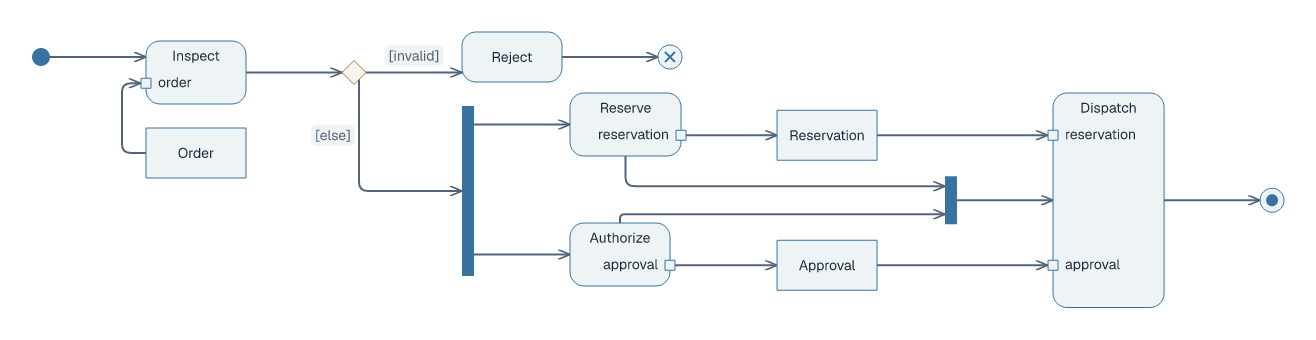
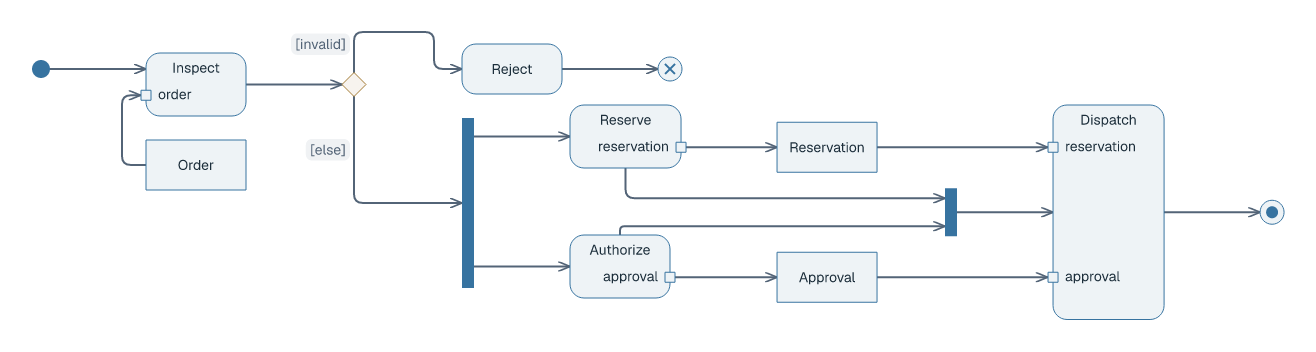
Dock activity decision branches at top and bottom centers

diff --git a/src/route/geometry.rs b/src/route/geometry.rs
@@ -377,62 +377,50 @@ pub(super) fn route_is_clear(points: &[Point], boxes: &[BoxNode], previous: &[Ro
             return false;
         }
         for route in previous {
-            let markers = [
-                (route.points[0], route.appearance.start),
-                (*route.points.last().unwrap(), route.appearance.end),
-            ];
-            if markers.iter().any(|(point, symbol)| {
-                *symbol != crate::syntax::EndSymbol::None && {
-                    let radius = marker_radius(*symbol, route.width);
+            if super::marker_clearance::hits_segment(pair[0], pair[1], route, boxes, true)
+                || super::marker_clearance::hits_segment(pair[0], pair[1], route, boxes, false)
+                || route.qualifiers.iter().any(|qualifier| {
                     segment_hits_rect(
                         pair[0],
                         pair[1],
-                        point.x - radius,
-                        point.y - radius,
-                        2.0 * radius,
-                        2.0 * radius,
-                    )
-                }
-            }) || route.qualifiers.iter().any(|qualifier| {
-                segment_hits_rect(
-                    pair[0],
-                    pair[1],
-                    qualifier.x,
-                    qualifier.y,
-                    qualifier.width,
-                    qualifier.height,
-                )
-            }) || route.bridges.iter().any(|bridge| {
-                let segment = &route.points[bridge.segment..=bridge.segment + 1];
-                let length = (segment[1].x - segment[0].x).hypot(segment[1].y - segment[0].y);
-                let t = bridge.distance / length;
-                let center = Point {
-                    x: segment[0].x + t * (segment[1].x - segment[0].x),
-                    y: segment[0].y + t * (segment[1].y - segment[0].y),
-                };
-                let reach = bridge.radius + bridge.height + route.width;
-                segment_hits_rect(
-                    pair[0],
-                    pair[1],
-                    center.x - reach,
-                    center.y - reach,
-                    2.0 * reach,
-                    2.0 * reach,
-                )
-            }) || route
-                .label
-                .iter()
-                .chain(route.end_labels.iter())
-                .any(|label| {
-                    segment_hits_rect(
-                        pair[0],
-                        pair[1],
-                        label.x,
-                        label.y,
-                        label.width,
-                        label.height,
+                        qualifier.x,
+                        qualifier.y,
+                        qualifier.width,
+                        qualifier.height,
                     )
                 })
+                || route.bridges.iter().any(|bridge| {
+                    let segment = &route.points[bridge.segment..=bridge.segment + 1];
+                    let length = (segment[1].x - segment[0].x).hypot(segment[1].y - segment[0].y);
+                    let t = bridge.distance / length;
+                    let center = Point {
+                        x: segment[0].x + t * (segment[1].x - segment[0].x),
+                        y: segment[0].y + t * (segment[1].y - segment[0].y),
+                    };
+                    let reach = bridge.radius + bridge.height + route.width;
+                    segment_hits_rect(
+                        pair[0],
+                        pair[1],
+                        center.x - reach,
+                        center.y - reach,
+                        2.0 * reach,
+                        2.0 * reach,
+                    )
+                })
+                || route
+                    .label
+                    .iter()
+                    .chain(route.end_labels.iter())
+                    .any(|label| {
+                        segment_hits_rect(
+                            pair[0],
+                            pair[1],
+                            label.x,
+                            label.y,
+                            label.width,
+                            label.height,
+                        )
+                    })
             {
                 return false;
             }

diff --git a/src/route/marker_clearance.rs b/src/route/marker_clearance.rs
@@ -1,0 +1,87 @@
+//! Decision entries use the visible arrow footprint so other branches can
+//! depart from the top or bottom of the same diamond.
+use super::{Point, Route, geometry::marker_radius, labels::segment_hits_rect};
+use crate::geometry::BoxNode;
+use crate::syntax::{EndSymbol, NodeKind};
+
+pub(super) fn hits_segment(
+    a: Point,
+    b: Point,
+    route: &Route,
+    boxes: &[BoxNode],
+    at_start: bool,
+) -> bool {
+    let (tip, neighbour, symbol) = if at_start {
+        (route.points[0], route.points[1], route.appearance.start)
+    } else {
+        let last = route.points.len() - 1;
+        (
+            route.points[last],
+            route.points[last - 1],
+            route.appearance.end,
+        )
+    };
+    if symbol == EndSymbol::None {
+        return false;
+    }
+    let endpoint = if at_start { route.from } else { route.to };
+    // Retain conservative clearance for other notations and endpoints.
+    if symbol != EndSymbol::Arrow
+        || boxes
+            .get(endpoint)
+            .is_none_or(|node| node.kind != NodeKind::ActivityDecision)
+    {
+        let radius = marker_radius(symbol, route.width);
+        return segment_hits_rect(
+            a,
+            b,
+            tip.x - radius,
+            tip.y - radius,
+            2.0 * radius,
+            2.0 * radius,
+        );
+    }
+    // An open arrowhead extends *behind* its tip along the final segment,
+    // not in every direction around the node. Preserve a padded footprint
+    // without blocking a different flow leaving the opposite side of a fork.
+    let length = (tip.x - neighbour.x).hypot(tip.y - neighbour.y);
+    if length < 1e-6 {
+        return false;
+    }
+    let (ux, uy) = (
+        (tip.x - neighbour.x) / length,
+        (tip.y - neighbour.y) / length,
+    );
+    let depth = 12.0;
+    let half_width = 6.0 + route.width / 2.0;
+    let corners = [
+        (tip.x + uy * half_width, tip.y - ux * half_width),
+        (tip.x - uy * half_width, tip.y + ux * half_width),
+        (
+            tip.x - ux * depth + uy * half_width,
+            tip.y - uy * depth - ux * half_width,
+        ),
+        (
+            tip.x - ux * depth - uy * half_width,
+            tip.y - uy * depth + ux * half_width,
+        ),
+    ];
+    let (min_x, max_x) = corners
+        .iter()
+        .fold((f64::INFINITY, f64::NEG_INFINITY), |bounds, point| {
+            (bounds.0.min(point.0), bounds.1.max(point.0))
+        });
+    let (min_y, max_y) = corners
+        .iter()
+        .fold((f64::INFINITY, f64::NEG_INFINITY), |bounds, point| {
+            (bounds.0.min(point.1), bounds.1.max(point.1))
+        });
+    segment_hits_rect(
+        a,
+        b,
+        min_x - 1.0,
+        min_y - 1.0,
+        max_x - min_x + 2.0,
+        max_y - min_y + 2.0,
+    )
+}

diff --git a/src/route/activity_preferred.rs b/src/route/activity_preferred.rs
@@ -108,6 +108,37 @@ pub(super) fn activity_decision_to_action(a: &BoxNode, b: &BoxNode) -> Option<Ve
     Some(vec![forced_port(a, PortSide::Right), Point { x: b.x, y }])
 }
 
+pub(super) fn activity_decision_above_action(a: &BoxNode, b: &BoxNode) -> Option<Vec<Point>> {
+    use crate::syntax::NodeKind;
+    if a.kind != NodeKind::ActivityDecision
+        || b.kind != NodeKind::ActivityAction
+        || a.x + a.width >= b.x
+        || center(b).y >= center(a).y - 2.0
+    {
+        return None;
+    }
+    let start = forced_port(a, PortSide::Top);
+    let end = forced_port(b, PortSide::Left);
+    let top = b.y - 12.0;
+    let approach_x = b.x - 28.0;
+    if top >= start.y - 8.0 || approach_x <= a.x + a.width + 12.0 {
+        return None;
+    }
+    Some(vec![
+        start,
+        Point { x: start.x, y: top },
+        Point {
+            x: approach_x,
+            y: top,
+        },
+        Point {
+            x: approach_x,
+            y: end.y,
+        },
+        end,
+    ])
+}
+
 pub(super) fn activity_decision_to_fork(a: &BoxNode, b: &BoxNode) -> Option<Vec<Point>> {
     use crate::syntax::NodeKind;
     if a.kind != NodeKind::ActivityDecision
@@ -117,13 +148,7 @@ pub(super) fn activity_decision_to_fork(a: &BoxNode, b: &BoxNode) -> Option<Vec<
     {
         return None;
     }
-    // Leave the lower-right slope: the exact bottom vertex may sit within the
-    // incoming control arrowhead's reserved footprint.
-    let c = center(a);
-    let start = Point {
-        x: c.x + 5.0,
-        y: c.y + 7.0,
-    };
+    let start = forced_port(a, PortSide::Bottom);
     let end = forced_port(b, PortSide::Left);
     Some(vec![
         start,

diff --git a/tests/activity.rs b/tests/activity.rs
@@ -180,7 +180,6 @@ fn parallel_activity_places_objects_in_lanes_without_diagonal_or_crossing_flows(
         ("Parallel", "Authorize"),
         ("Together", "Dispatch"),
         ("Inspect", "Valid"),
-        ("Valid", "Reject"),
     ] {
         let points = &flow(from, to).points;
         assert_eq!(points.len(), 2, "{from} -> {to} must be direct");
@@ -203,6 +202,30 @@ fn parallel_activity_places_objects_in_lanes_without_diagonal_or_crossing_flows(
             "{from} -> {to} must be orthogonal"
         );
     }
+    let (decision, reject) = (node("Valid"), node("Reject"));
+    let invalid = &flow("Valid", "Reject").points;
+    assert_eq!(invalid.len(), 5);
+    assert!((invalid[0].x - decision.x - decision.width / 2.0).abs() < 0.01);
+    assert!(
+        (invalid[0].y - decision.y).abs() < 0.01,
+        "invalid exits at the diamond top"
+    );
+    assert!((invalid[4].x - reject.x).abs() < 0.01);
+    assert!(
+        (invalid[4].y - reject.y - reject.height / 2.0).abs() < 0.01,
+        "invalid enters the middle of Reject's left side"
+    );
+    assert!(
+        invalid
+            .windows(2)
+            .all(|w| (w[0].x - w[1].x).abs() < 0.01 || (w[0].y - w[1].y).abs() < 0.01)
+    );
+    let else_path = &flow("Valid", "Parallel").points;
+    assert!(
+        (else_path[0].x - decision.x - decision.width / 2.0).abs() < 0.01,
+        "else starts at the diamond's bottom centre"
+    );
+    assert!((else_path[0].y - decision.y - decision.height).abs() < 0.01);
     assert!(
         routes.iter().all(|r| r.bridges.is_empty()),
         "these parallel lanes need no crossings"

diff --git a/src/route/mod.rs b/src/route/mod.rs
@@ -13,6 +13,7 @@ mod end_labels;
 mod geometry;
 mod junction_arms;
 mod labels;
+mod marker_clearance;
 mod outline_clearance;
 mod package_outline;
 mod parallel;
@@ -24,9 +25,9 @@ mod router;
 mod self_loops;
 mod side_rules;
 use activity_preferred::{
-    activity_action_to_join, activity_control_entry, activity_decision_to_action,
-    activity_decision_to_fork, activity_fork_to_action, activity_join_to_action,
-    activity_object_to_input, activity_output_to_object,
+    activity_action_to_join, activity_control_entry, activity_decision_above_action,
+    activity_decision_to_action, activity_decision_to_fork, activity_fork_to_action,
+    activity_join_to_action, activity_object_to_input, activity_output_to_object,
 };
 use geometry::{center, member_port, port};
 use preferred::{
@@ -177,6 +178,9 @@ fn candidates(
                 results.insert(0, points);
             }
             if let Some(points) = activity_decision_to_action(a, b) {
+                results.insert(0, points);
+            }
+            if let Some(points) = activity_decision_above_action(a, b) {
                 results.insert(0, points);
             }
             if let Some(points) = activity_control_entry(a, b) {

diff --git a/docs/diagrams/activity.md b/docs/diagrams/activity.md
@@ -49,8 +49,8 @@ styling {
 ```
 
 <picture>
-  <source media="(prefers-color-scheme: dark)" srcset="../images/activity-order-modern-dark.png?v=activity-fork-length-20261104">
-  <img src="../images/activity-order-modern.png?v=activity-fork-length-20261104" alt="Order activity with guarded decision and extended fork/join">
+  <source media="(prefers-color-scheme: dark)" srcset="../images/activity-order-modern-dark.png?v=activity-gateway-docking-20261104">
+  <img src="../images/activity-order-modern.png?v=activity-gateway-docking-20261104" alt="Order activity with guarded decision and extended fork/join">
 </picture>
 
 [Complete source](../../examples/activity-order.laml). A `decision` uses guarded outgoing paths; `fork` and `join` split and rejoin parallel paths. `length` extends the fork along its long axis so both outgoing arrows can run horizontally. `flowFinal` ends one path, `activityFinal` ends the activity.
@@ -66,8 +66,8 @@ object Approval --> Dispatch::approval
 ```
 
 <picture>
-  <source media="(prefers-color-scheme: dark)" srcset="../images/activity-order-modern-dark.png?v=activity-fork-length-20261104">
-  <img src="../images/activity-order-modern.png?v=activity-fork-length-20261104" alt="Named action pins and object nodes in the order activity">
+  <source media="(prefers-color-scheme: dark)" srcset="../images/activity-order-modern-dark.png?v=activity-gateway-docking-20261104">
+  <img src="../images/activity-order-modern.png?v=activity-gateway-docking-20261104" alt="Named action pins and object nodes in the order activity">
 </picture>
 
 [Complete source](../../examples/activity-order.laml). `Action::pin` addresses an input or output pin. See [GNE](gne.md) for common placement/styling and the [syntax reference](../language-reference.md#activity-diagrams) for vertex and flow forms.
